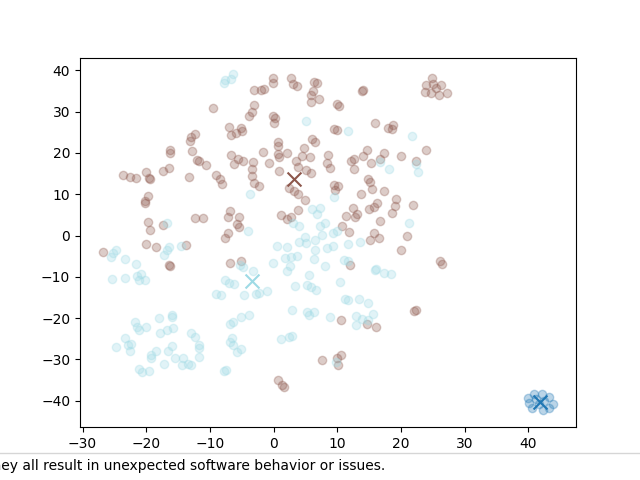
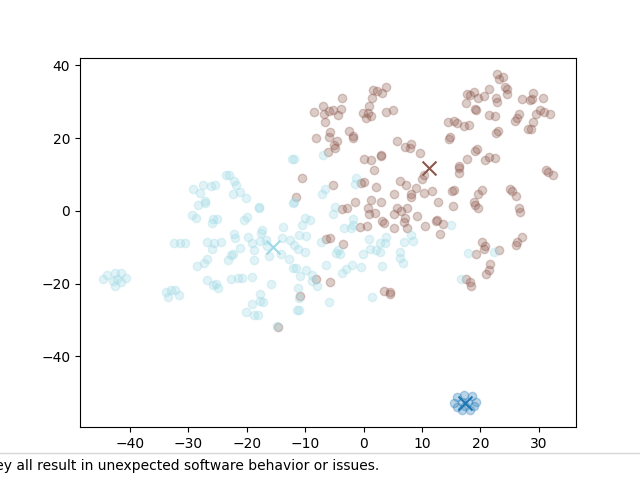
Updating

diff --git a/failures/commands/cluster.py b/failures/commands/cluster.py
@@ -57,7 +57,7 @@ class ClusterCommand:
         #     incidents = Incident.objects.filter(articles__in=args.articles).distinct()
         # else:
         #     incidents = Incident.objects.all()
-        incidents = Incident.objects.prefetch_related('articles').order_by('-published')[:200] # TODO: THIS IS TEMPORARY
+        incidents = Incident.objects.prefetch_related('articles').filter(SEcauses__isnull=False).order_by('-published')[:200] # TODO: THIS IS TEMPORARY
 
         postmortem_keys = ["SEcauses"] #["summary","SEcauses","NSEcauses","impacts","mitigations"]
 
@@ -65,25 +65,25 @@ class ClusterCommand:
 
         embedder = EmbedderGPT()
 
-        for incident in incidents:
-            logging.info("Creating embeddings for incident %s.", incident)
+        # for incident in incidents:
+        #     logging.info("Creating embeddings for incident %s.", incident)
 
-            for postmortem_key in postmortem_keys:
-                answer_set = True
+        #     for postmortem_key in postmortem_keys:
+        #         answer_set = True
 
-                postmortem_embedding_key = postmortem_key + "_embedding"
-                if not getattr(incident, postmortem_embedding_key):
-                    answer_set = False
+        #         postmortem_embedding_key = postmortem_key + "_embedding"
+        #         if not getattr(incident, postmortem_embedding_key):
+        #             answer_set = False
                 
-                if args.all or not answer_set: 
+        #         if args.all or not answer_set: 
 
-                    logging.info("Getting embedding for: " + postmortem_embedding_key)
+        #             logging.info("Getting embedding for: " + postmortem_embedding_key)
                     
-                    embeddings = embedder.run(getattr(incident, postmortem_key))
+        #             embeddings = embedder.run(getattr(incident, postmortem_key))
 
-                    setattr(incident, postmortem_embedding_key, json.dumps(embeddings))
+        #             setattr(incident, postmortem_embedding_key, json.dumps(embeddings))
                 
-            incident.save()
+        #     incident.save()
 
         #df = pd.DataFrame(list(queryset.values('id', 'summary_embedding', 'SEcauses_embedding', 'NSEcauses_embedding','impacts_embedding','mitigations_embedding')))
 
@@ -106,12 +106,12 @@ def cluster(queryset, postmortem_keys):
     postmortem_embedding_keys = [key+"_embedding" for key in postmortem_keys]
 
     # Convert queryset data to a list of dictionaries
-    queryset_list = list(queryset.values('id', *postmortem_keys, *postmortem_embedding_keys))
+    queryset_list = list(queryset.values('id', *postmortem_keys))
 
-    # Convert JSON strings to Python lists
-    for item in queryset_list:
-        for postmortem_embedding_key in postmortem_embedding_keys:
-            item[postmortem_embedding_key] = json.loads(item[postmortem_embedding_key])
+    # # Convert JSON strings to Python lists
+    # for item in queryset_list:
+    #     for postmortem_embedding_key in postmortem_embedding_keys:
+    #         item[postmortem_embedding_key] = json.loads(item[postmortem_embedding_key])
 
     # Create a DataFrame from the queryset data
     df = pd.DataFrame(queryset_list)
@@ -124,11 +124,14 @@ def cluster(queryset, postmortem_keys):
 
         # Split the SECauses string into individual causes
         causes = []
-        for cause_str in df[postmortem_key]:
+        for (id, cause_str) in zip(df["id"], df[postmortem_key]):
+            # print(id)
             cause_list = re.split(r'\d+\.\s*', cause_str)
+            cause_list = [re.sub(r'\s*\[(?:Article\s+)?\d+(?:,\s*\d+)*\]\s*[\n.]?$', '.', cause_str) for cause_str in cause_list]
             causes.extend(cause_list[1:])  # Skip the first empty item
 
         logging.info(f"Total number of causes; {len(causes)}")
+        print(causes)
 
         # Create embeddings for individual causes
         embedder = EmbedderGPT()

diff --git a/tests/commands/evaluate_taxonomy.py b/tests/commands/evaluate_taxonomy.py
@@ -1,5 +1,6 @@
 import argparse
 import logging
+import json
 import textwrap
 import pandas as pd
 from sklearn.metrics import confusion_matrix, accuracy_score, precision_score, recall_score, f1_score
@@ -77,6 +78,8 @@ class EvaluateTaxonomyCommand:
 
         # Get list of correctly merged incidents
         auto_incident_set, man_incident_set = self.get_oto_ids()
+
+        print(man_incident_set)
 
         # Get incidents
         incidents = Incident.objects.filter(id__in=auto_incident_set)
@@ -166,14 +169,42 @@ class EvaluateTaxonomyCommand:
                 logging.info("Insufficent values for %s", taxonomy)
                 continue
 
-            print(df_taxonomy_values)
-            print("\n here \n")
-            print(incidents_taxonomy_values)
-            print("\n\n\n\n-----------------------------------------------------------\n\n\n\n\n")
+            # print(df_taxonomy_values)
+            # print("\n here \n")
+            # print(incidents_taxonomy_values)
+            # print("\n\n\n\n-----------------------------------------------------------\n\n\n\n\n")
+
+            # incidents_taxonomy_values = [json.dumps(json.loads(value.replace("\n", ""))) for value in incidents_taxonomy_values]
+
+            # print(incidents_taxonomy_values)
+            # print("\n here \n")
+
+            # json_format = json.loads(incidents_taxonomy_values[0]).copy()
+
+            # for key, value in json_format.items():
+            #     json_format[key] = False
+
+            # df_taxonomy_values_updated = []
+            # for value in df_taxonomy_values:
+            #     value = [val.strip() for val in value.split(',')]
+            #     json_copy = json_format.copy()
+
+            #     for val in value:
+            #         json_copy[val] = True
+
+            #     df_taxonomy_values_updated.append(json.dumps(json_copy))
+
+            # print(df_taxonomy_values_updated)
+
+            # df_taxonomy_values = df_taxonomy_values_updated
+
+            # return
 
             # Convert string labels to numeric format using LabelEncoder
             all_labels = set(df_taxonomy_values).union(set(incidents_taxonomy_values))
             label_encoder = LabelEncoder().fit(list(all_labels))
+            print(len(df_taxonomy_values))
+            print(len(incidents_taxonomy_values))
             ground_truth_encoded = label_encoder.transform(df_taxonomy_values)
             predictions_encoded = label_encoder.transform(incidents_taxonomy_values)
 
@@ -272,7 +303,7 @@ class EvaluateTaxonomyCommand:
             # Compare sets
             if auto_articles_set == article_set:
                 auto_incident_ids.append(incident_ids)
-                man_incident_ids.append(i)
+                man_incident_ids.append(i + 1)
                 
         return auto_incident_ids, man_incident_ids
 

diff --git a/failures/commands/__init__.py b/failures/commands/__init__.py
@@ -94,7 +94,7 @@ def main():
     args = parser.parse_args()
 
     logging.basicConfig(
-        filename="PostmortemIncidentAutoVDB_Testing.log",
+        filename="PostmortemIncidentAutoVDB_Test_Suite.log",
         filemode='a',
         level=determine_logging_level(args.verbose),
         format="%(asctime)s %(levelname)s: %(message)s",
